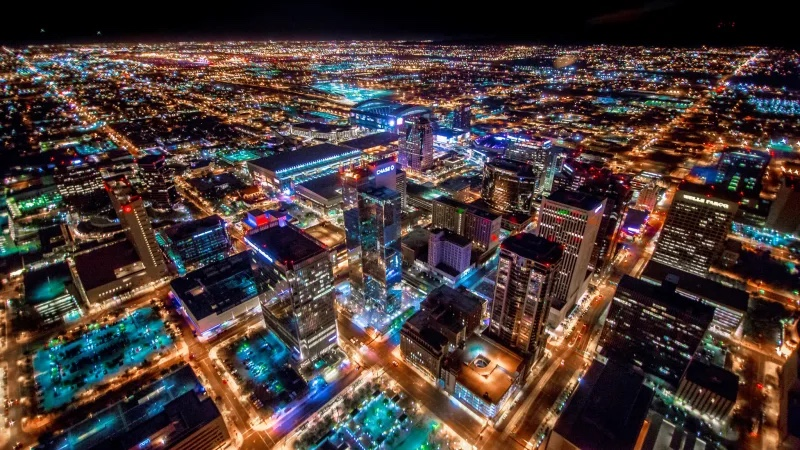
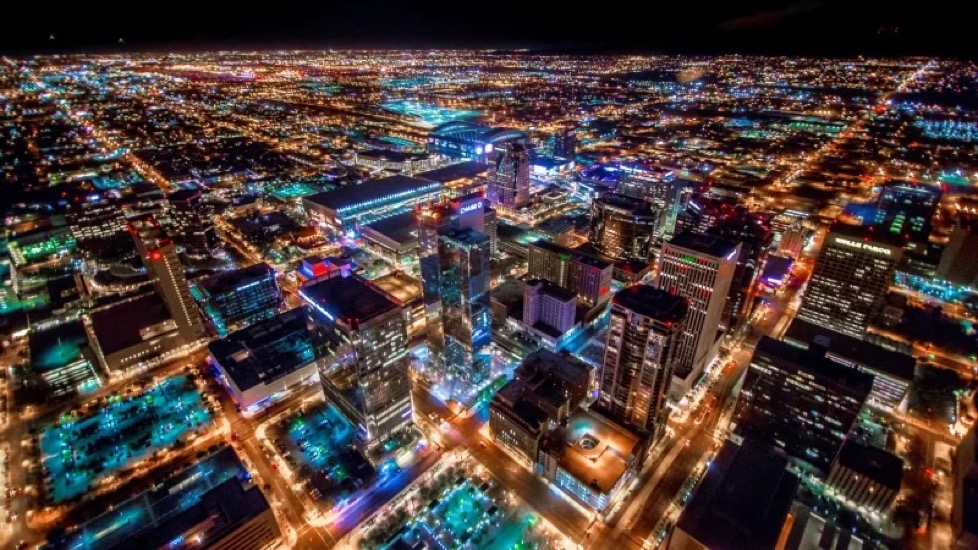
Sized images in carousel

diff --git a/app/assets/stylesheets/master.scss b/app/assets/stylesheets/master.scss
@@ -24,6 +24,13 @@ h2{
   padding-left: 4%;
   font-size: 20px;
 }
+h3{
+  text-shadow:
+    -1px -1px 0 #000,
+    1px -1px 0 #000,
+    -1px 1px 0 #000,
+    1px 1px 0 #000;
+}
 
 .size{
     max-width: 2500px;
@@ -112,3 +119,16 @@ blockquote:before{
 blockquote p{
   display: inline;
 }
+
+.carousel-inner > .carousel-item > img, .carousel-inner > .carousel-item > a > img {
+  width: 100%;
+  max-height: 550px;
+  line-height: 1;
+}
+
+/*.center{
+  display: block;
+  margin-left: auto;
+  margin-right: auto;
+  width: 50%;
+}*/
